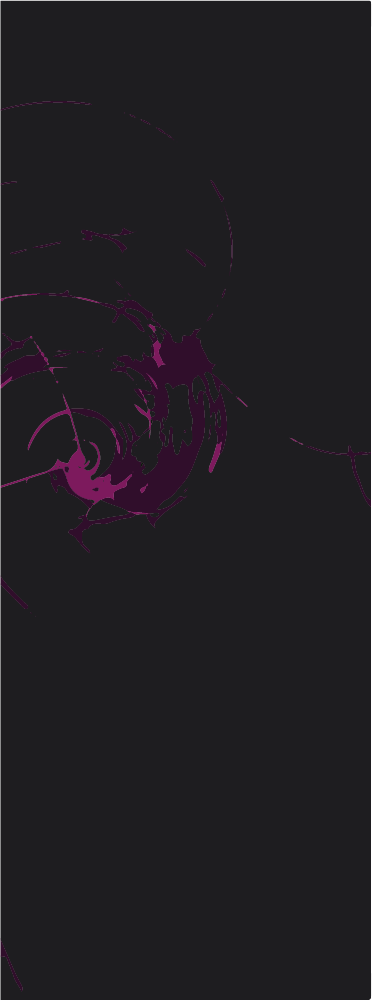
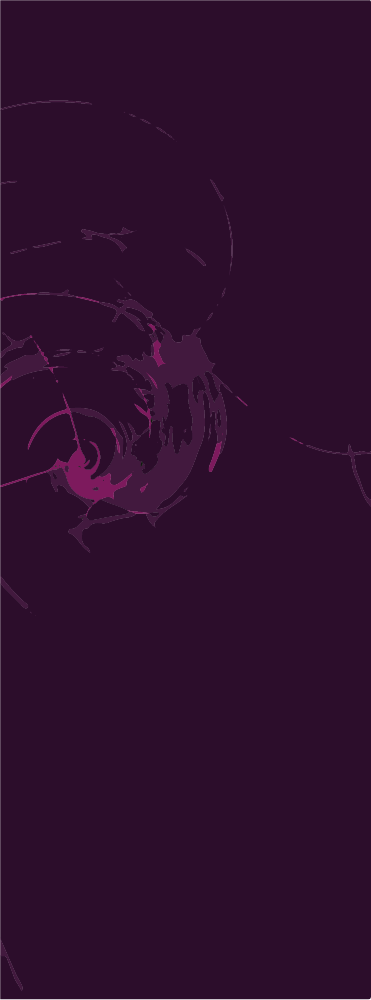
lot of changes

diff --git a/src/components/Mission/index.jsx b/src/components/Mission/index.jsx
@@ -1,4 +1,4 @@
-import missionImg from '../../assets/images/missionImg.png';
+import missionImg from '../../assets/images/missionKinera.png';
 import missionImg3 from '../../assets/images/missionImg4.png';
 import './mission.css'
 
@@ -20,9 +20,17 @@ const Mission = () => {
                         
                         <div className="sm:w-[55%] w-full md:pl-28 pl-0 -mt-40">
                         <h1 className="-mt-8 py-10 sm:text-[75px] text-[38px] font-bold text-center text-white" data-aos="fade-left">MISSION</h1>
-                            <p className="text-[19px] sm:text-left text-center -mt-2 "data-aos="fade-right"> <span className="glitch">We propose </span>  to create an open and resilient curation ecosystem that unites a diverse community of viewers and nonconformist media creators.</p>
-                            <p className="text-[19px] sm:text-left text-center mt-10 "data-aos="fade-right">  <span className="glitch"> We aim </span> to challenge existing social media and streaming platforms by realigning important questions about accessibility, funding, and content distribution while giving a wider audience the films, videos, and ideas that aren't yet in mainstream media.</p>
-                            <p className="text-[19px] sm:text-left text-center mt-10 "data-aos="fade-right">  <span className="glitch"> We aim </span> to deliver a solution that puts the relation creator/curator/viewer at the centre of a process where their active participation in the ecosystem aligns with a set of predictable token rewards.</p>
+                        <div className="card-container w-[100%]">
+                            <div className="card-mission" data-aos="fade-left">
+                                <p className="text-[19px] sm:text-left text-center mt-0 "data-aos="fade-right"> <span className="glitch">We propose </span>  to create an open and resilient curation ecosystem that unites a diverse community of viewers and nonconformist media creators.</p>
+                            </div>
+                            <div className="card-mission" data-aos="fade-left">
+                                <p className="text-[19px] sm:text-left text-center mt-0 "data-aos="fade-right">  <span className="glitch"> We aim </span> to challenge existing social media and streaming platforms by realigning important questions about accessibility, funding, and content distribution while giving a wider audience the films, videos, and ideas that aren't yet in mainstream media.</p>
+                            </div>
+                            <div className="card-mission" data-aos="fade-left">
+                                <p className="text-[19px] sm:text-left text-center mt-0 "data-aos="fade-right">  <span className="glitch"> We aim </span> to deliver a solution that puts the relation creator/curator/viewer at the centre of a process where their active participation in the ecosystem aligns with a set of predictable token rewards.</p>
+                            </div>
+                        </div>
                         </div>
                     </div>
                 </div>
@@ -33,9 +41,15 @@ const Mission = () => {
 
                     <div className="w-full mt-20 px-2" data-aos="fade-right">
                         <div className="-mt-8 sm:w-[55%] w-full md:pl-28 pl-0 mt-50">
-                            <p className="text-[19px] text-center mt-10" data-aos="fade-right"> We propose <span className="glitch"> to create an open and resilient curation ecosystem </span> that unites a diverse community of viewers and nonconformist media creators.</p>
-                            <p className="text-[19px] text-center mt-10" data-aos="fade-right">  We aim <span className="glitch"> to challenge existing social media and streaming platforms </span> by realigning important questions about accessibility, funding, and content distribution while giving a wider audience the films, videos, and ideas that aren't yet in mainstream media.</p>
-                            <p className="text-[19px] text-center mt-10" data-aos="fade-right">  We aim <span className="glitch"> to deliver a solution </span> that puts the relation creator/curator/viewer at the centre of a process where their active participation in the ecosystem aligns with a set of predictable token rewards.</p>
+                            <div className="card-mission" data-aos="fade-left">
+                                <p className="text-[19px] text-center mt-0" data-aos="fade-right"> We propose <span className="glitch"> to create an open and resilient curation ecosystem </span> that unites a diverse community of viewers and nonconformist media creators.</p>
+                            </div>
+                            <div className="card-mission" data-aos="fade-left">
+                                <p className="text-[19px] text-center mt-0" data-aos="fade-right">  We aim <span className="glitch"> to challenge existing social media and streaming platforms </span> by realigning important questions about accessibility, funding, and content distribution while giving a wider audience the films, videos, and ideas that aren't yet in mainstream media.</p>
+                            </div>
+                            <div className="card-mission" data-aos="fade-left">
+                                <p className="text-[19px] text-center mt-0" data-aos="fade-right">  We aim <span className="glitch"> to deliver a solution </span> that puts the relation creator/curator/viewer at the centre of a process where their active participation in the ecosystem aligns with a set of predictable token rewards.</p>
+                            </div>
                         </div>
                     </div>
                     <div className='is-mobile-version'>

diff --git a/src/components/About/index.jsx b/src/components/About/index.jsx
@@ -15,19 +15,25 @@ const About = () => {
 
 
                 <div className="w-full flex justify-center mt-10">
-                    <div className="w-[80%]">
-                        <p className="text-[19px] text-center -mt-5" data-aos="fade-left"><span class="glitch">Kinera</span> is the home for the best audiovisual media content in the Web3 environment. </p>
-
-                        <p className="text-[19px] text-center mt-10" data-aos="fade-right">With a set of tools built upon a system of tokenised incentives, users can create film and video competitions and rankings where the values and interests of the community can emerge.</p>
-
-                        <p className="text-[19px] text-center mt-10" data-aos="fade-right">The result of the process is a set of lists with relevant content. On top of these lists, the community can build television channels that reflect their interests and culture. The channels can use different subscription models to finance themselves or be open to everyone.</p>
-
-                        <p className="text-[19px] text-center mt-10" data-aos="fade-right"><span class="glitch">Kinera's </span> media platform is the place to nurture, empower, and give voice to people from different cultural and political backgrounds.</p>
-
-                        <p className="text-[19px] text-center mt-10" data-aos="fade-right"><b>Content moderation </b> is made by the community and reinforced by a platform design that drives the users to forms of participation according to the community rules. In this way, members can choose their level of engagement in an environment aligned with their values.</p>
-
-                        <p className="text-[19px] text-center mt-10" data-aos="fade-right">We aim to become the first global content creation and distribution network where the same content is available everywhere.</p>
-
+                      <div className="card-container w-[80%]">
+                        <div className="card" data-aos="fade-left">
+                        <p className="text-[19px] text-center -mt-0" data-aos="fade-left"><span class="glitch">Kinera</span> is the home for the best audiovisual media content in the Web3 environment. </p>
+                        </div>
+                        <div className="card" data-aos="fade-left">
+                        <p className="text-[19px] text-center mt-0" data-aos="fade-right">With a set of tools built upon a system of tokenised incentives, users can create film and video competitions and rankings where the values and interests of the community can emerge.</p>
+                        </div>
+                        <div className="card" data-aos="fade-left">
+                        <p className="text-[19px] text-center mt-0" data-aos="fade-right">The result of the process is a set of lists with relevant content. On top of these lists, the community can build television channels that reflect their interests and culture. The channels can use different subscription models to finance themselves or be open to everyone.</p>
+                        </div>
+                        <div className="card" data-aos="fade-left">
+                        <p className="text-[19px] text-center mt-0" data-aos="fade-right"><span class="glitch">Kinera's </span> media platform is the place to nurture, empower, and give voice to people from different cultural and political backgrounds.</p>
+                        </div>
+                        <div className="card" data-aos="fade-left">
+                        <p className="text-[19px] text-center mt-0" data-aos="fade-right"><b>Content moderation </b> is made by the community and reinforced by a platform design that drives the users to forms of participation according to the community rules. In this way, members can choose their level of engagement in an environment aligned with their values.</p>
+                        </div>
+                        <div className="card" data-aos="fade-left">
+                        <p className="text-[19px] text-center mt-0" data-aos="fade-right">We aim to become the first global content creation and distribution network where the same content is available everywhere.</p>
+                        </div>
                     </div>
                 </div>
             </div>

diff --git a/src/components/Mission/mission.css b/src/components/Mission/mission.css
@@ -1,5 +1,6 @@
 .mission-container {
   position: relative;
+  z-index: 1; /* Assegura um contexto de empilhamento para os filhos */
 }
 
 .background-image {
@@ -8,18 +9,14 @@
   left: 0;
   width: 100%;
   height: 100%;
-  z-index: 0;
+  z-index: -1;
   background-size: cover;
   background-position: center;
 }
 
-.foreground-image {
+.foreground-image, .is-mobile-version {
   position: relative;
-  z-index: 1;
-}
-
-.is-mobile-version {
-  display: none !important;     
+  z-index: 2; /* Garante que fiquem acima da .background-image */
 }
 
 
@@ -41,11 +38,55 @@
     }
 
     .is-mobile-version {
-        display: block !important;     
-    }
+      display: block !important; /* Mostra a versão mobile */
+      position: relative; /* Necessário para z-index funcionar */
+      z-index: 2; /* Garante que a imagem mobile fique acima do fundo */
+  }
 
     .is-md-w {
       display: none !important;
     }
+
+    .is-mobile-version img {
+        width: 100%; /* Faz a imagem ocupar toda a largura disponível */
+        height: auto; /* Mantém a proporção da imagem */
+        object-fit: cover; /* Garante que a imagem cubra o espaço disponível sem distorcer */
+        display: block; /* Garante que a imagem seja exibida */
+        margin-top: 0px; /* Adiciona um espaço acima da imagem */
+        margin-bottom: -80px; /* Adiciona um espaço acima da imagem */
+    }
   }
   
+  .card-container {
+    display: grid;
+    grid-template-columns: 1fr;
+    gap: 20px;
+    width: 100%;
+}
+
+.card-mission {
+    background-color: rgba(254, 147, 204, 0.178);
+    border-radius: 10px;
+    box-shadow: 0 4px 6px rgba(0, 0, 0, 0.1);
+    padding: 20px;
+    margin-top: 20px;
+    max-width: 1200px;
+    width: auto;
+    display: flex;
+    justify-content: center; /* Centraliza horizontalmente o conteúdo */
+    align-items: center; /* Centraliza verticalmente o conteúdo */
+    text-align: center;
+    flex-direction: column;
+    box-sizing: border-box;
+    min-height: 100px; /* Altura mínima do card */
+    flex-grow: 1; /* Permite que o card cresça para ocupar o espaço disponível */
+    transition: background-color 0.3s ease; /* Suaviza a transição da cor de fundo */
+}
+
+.card:first-of-type {
+    margin-top: 0;
+}
+
+.card-mission:hover {
+  background-color: rgba(247, 74, 166, 0.321); /* Muda a cor de fundo ao passar o mouse */
+}

diff --git a/src/components/Struct/index.jsx b/src/components/Struct/index.jsx
@@ -7,7 +7,7 @@ import ReactMarkdown from 'react-markdown'
 
 import FlipCard from '../FlipCard';
 
-import kineraStructure03 from '../../assets/images/kineraStructure03.png';
+import kineraStructure03 from '../../assets/images/kineraStructure04.png';
 import asset01 from '../../assets/images/asset01.png';
 import asset02 from '../../assets/images/asset02.png';
 import asset03 from '../../assets/images/asset03.png';
@@ -19,14 +19,16 @@ const Struct = () => {
             className="w-full min-h-screen flex flex-col py-20 bg-center bg-cover bg-no-repeat text-black"
             id='struct'
             style={{
-                backgroundImage: `linear-gradient(rgba(255, 255, 255, 0.3), rgba(255, 255, 255, 0.3)), url(${kineraStructure03})`
+                backgroundImage: `url(${kineraStructure03})`
             }}
         >
             <h1 className="-mt-8 sm:text-[75px] text-[38px] font-bold text-center text-[#FF0A78]" data-aos="zoom-in">THE STRUCTURE OF KINERA</h1>
 
             <div className="w-full flex justify-center mt-10">
-                <div className="w-[80%]" data-aos="zoom-in">
-                    <p className="text-[25px] text-center">Kinera's architecture comprises <strong>Rankings</strong>, <strong>Constellations</strong>, <strong>SEE TVChain</strong> and <b>Kine Makers</b><strong>.</strong></p>
+                <div className="w-[85%]" data-aos="zoom-in">
+                    <div className="card-mission" data-aos="fade-left">
+                    <p className="text-[25px] text-center text-white">Kinera's architecture comprises <strong>Rankings</strong>, <strong>Constellations</strong>, <strong>SEE TVChain</strong> and <b>Kine Makers</b><strong>.</strong></p>
+                    </div>
                 </div>
             </div>
 

diff --git a/src/components/Struct/structure.css b/src/components/Struct/structure.css
@@ -1,32 +1,12 @@
-.background-overlay2 {
-    position: relative;
-}
-
-.background-overlay2::before {
-    content: '';
-    position: absolute;
-    top: 0;
-    left: 0;
-    right: 0;
-    bottom: 0;
-    background: rgba(252, 173, 218, 0.558); /* 10% black */
-    z-index: 1;
-}
-
-.background-overlay2 > * {
-    position: relative;
-    z-index: 2;
-}
-
-.card-container {
+  .card-container {
     display: grid;
     grid-template-columns: 1fr;
     gap: 20px;
     width: 100%;
 }
 
-.card {
-    background-color: rgba(255, 255, 255, 0.8);
+.card-structure {
+    background-color: rgba(242, 234, 238, 0.313);
     border-radius: 10px;
     box-shadow: 0 4px 6px rgba(0, 0, 0, 0.1);
     padding: 20px;
@@ -41,8 +21,13 @@
     box-sizing: border-box;
     min-height: 100px; /* Altura mínima do card */
     flex-grow: 1; /* Permite que o card cresça para ocupar o espaço disponível */
+    transition: background-color 0.3s ease; /* Suaviza a transição da cor de fundo */
 }
 
 .card:first-of-type {
     margin-top: 0;
+}
+
+.card-structure:hover {
+  background-color: rgba(247, 74, 166, 0.321); /* Muda a cor de fundo ao passar o mouse */
 }

diff --git a/src/components/FlipCard/index.jsx b/src/components/FlipCard/index.jsx
@@ -8,7 +8,7 @@ const FlipCard = ({ title, backDesc, imgUrl, icon, id }) => {
             <div className="flip-card">
                 <div className="flip-card-front flex flex-col justify-center items-center gap-5 bg-[#1D1D20] rounded-[38px] border-2 border-[#FF0A78]" id={id}>               
                     <img src={imgUrl} alt="icon" className="md:w-4/5 w-2/5" />
-                    <h1 className="text-[24px] text-center text-[#FF43A2] font-bold">{title}</h1>
+                    <h1 className="text-[24px] text-center text-white font-semibold">{title}</h1>
                 </div>
                 <div className="flip-card-back flex flex-col px-3 bg-[#FF0A78] rounded-[38px]">
                     <div className="w-full flex justify-center -mb-4">

diff --git a/src/components/FlipCard/index.css b/src/components/FlipCard/index.css
@@ -26,7 +26,7 @@
   #post1_img {
     width:100%;
     height:100%;
-    background-image: url('../../assets/images/banner1.png');
+    background-image: url('../../assets/images/banner5.png');
     background-size: cover;
     background-position: center;
     clear:both;
@@ -56,7 +56,7 @@
   #post4_img {
     width:100%;
     height:100%;
-    background-image: url('../../assets/images/banner4.png');
+    background-image: url('../../assets/images/banner1.png');
     background-size: cover;
     background-position: center;
     clear:both;

diff --git a/src/App.jsx b/src/App.jsx
@@ -54,8 +54,8 @@ const App = () => {
             <Kine />
             <Struct />
             <Participation />
-            <Foundation />
             <Community />
+            <Foundation />
             <Funding />
             <Blog />
             <div className="relative w-full flex items-center justify-center">

diff --git a/src/components/Community/community.css b/src/components/Community/community.css
@@ -9,7 +9,7 @@
     left: 0;
     right: 0;
     bottom: 0;
-    background: rgba(150, 42, 89, 0.248); /* 10% black */
+    background: rgba(241, 184, 213, 0.572); /* 10% black */
     z-index: 1;
 }
 
